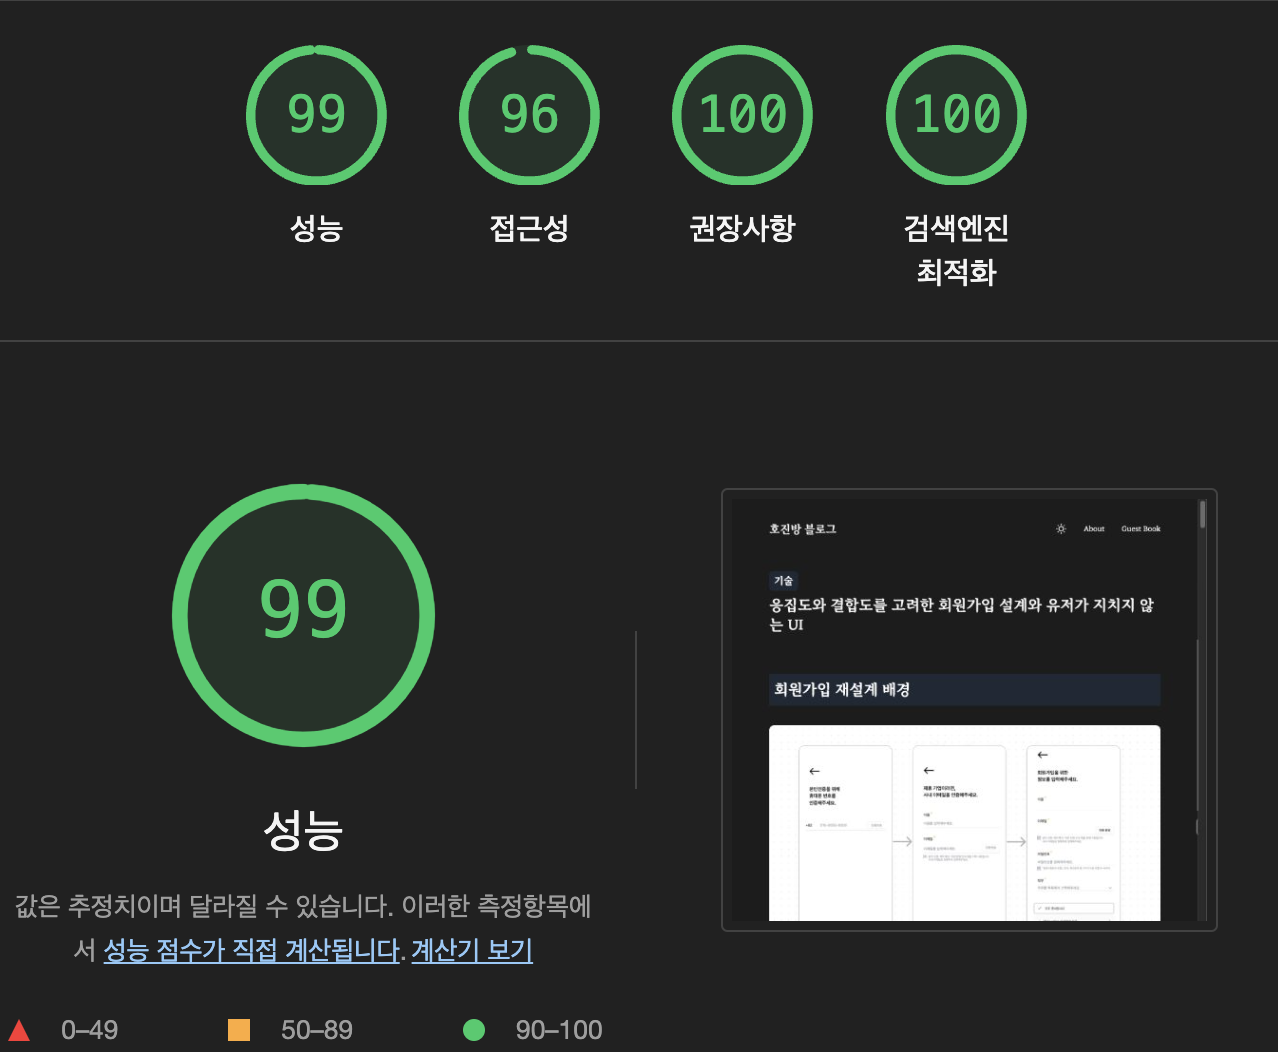
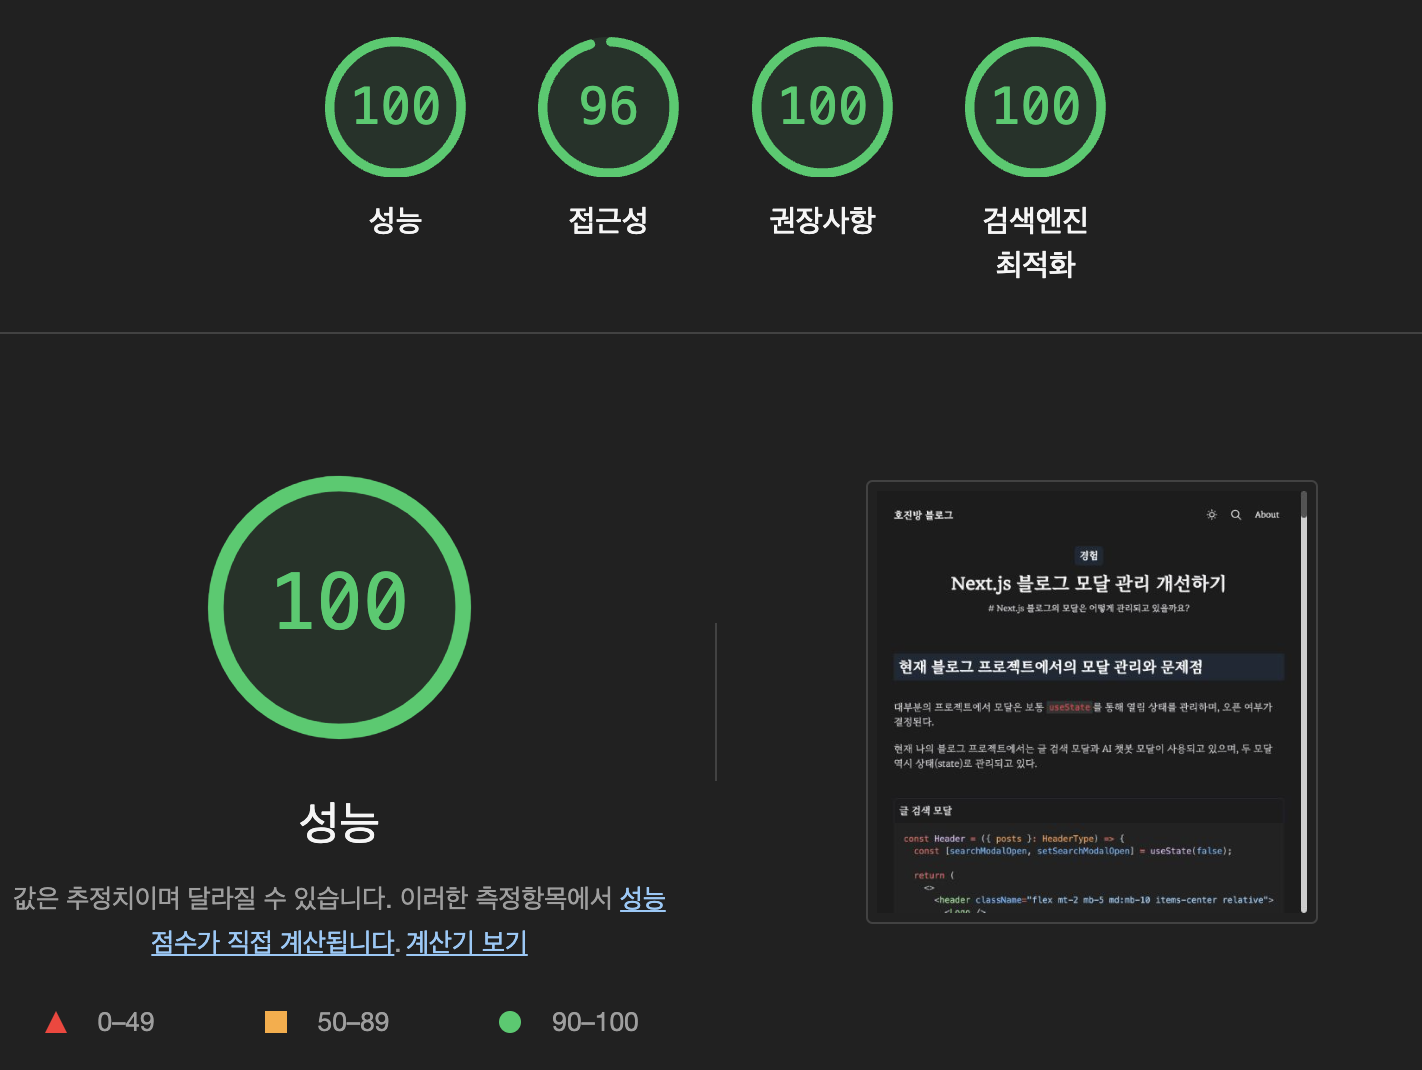
feat: 전체적인 디자인 사이즈 크게 변경

diff --git a/src/components/modal/AiModal.tsx b/src/components/modal/AiModal.tsx
@@ -40,7 +40,7 @@ const AiModal = () => {
   useEffect(() => {
     const firstMessage = [
       {
-        content: `${content.content} 해당 글을 최대한 길고 자세하게 요약해줘. 해당 글은 내가 작성한거고, 나의 블로그에 방문한 독자에게 설명하는 식으로 ~입니다 말투로 설명해주면 돼. 요약 중에 참고할만한 내용이 있다면 해당 링크를 https://www.banghojin.site 뒤에 구체적인 경로를 포함해서 제공해줘. 만약 참고하지 않은 내용이라면 URL을 포함하지 말아줘.`,
+        content: `${content.content} 해당 글을 최대한 길고 자세하게 요약해줘. 해당 글은 내가 작성한거고, 나의 블로그에 방문한 독자에게 설명하는 식으로 ~입니다 말투로 설명해주면 돼. 요약 중에 참고할만한 내용이 있다면 해당 링크[https://www.banghojin.site]를 참고해서 뒤에 구체적인 경로를 포함해서 제공해줘. 만약 참고하지 않은 내용이라면 URL을 포함하지 말아줘.`,
         role: 'user' as const,
       },
     ];
@@ -71,7 +71,7 @@ const AiModal = () => {
       <div
         data-cy="AiModal"
         ref={ref}
-        className="border border-gray-500 absolute top-1/2 transform -translate-y-1/2 w-[720px] min-h-[500px] max-h-[600px] overflow-y-auto mx-auto bg-gray-50 pb-4 rounded-xl shadow-lg custom-scrollbar2"
+        className="border border-gray-500 absolute top-1/2 transform -translate-y-1/2 w-[720px] min-h-[600px] max-h-[700px] overflow-y-auto mx-auto bg-gray-50 pb-4 rounded-xl shadow-lg custom-scrollbar2"
       >
         <div className="w-full h-9 bg-gray-900 px-3 py-3 flex items-center gap-2">
           <div
@@ -85,13 +85,14 @@ const AiModal = () => {
           <div className="flex items-center">
             <Image
               src="/images/chatbot_me.jpeg"
-              width={50}
-              height={50}
+              width={55}
+              height={55}
               alt="me"
               className="rounded-full"
+              priority
             />
           </div>
-          <div className="mr-3 text-zinc-800 font-naverSemi text-sm rounded-l-3xl bg-gray-100 p-4 rounded-br-3xl shadow-lg">
+          <div className="mr-3 text-zinc-800 font-naverSemi text-[15px] rounded-l-3xl bg-gray-100 p-4 rounded-br-3xl shadow-lg">
             <p>안녕하세요. 방호진 블로그에 오신것을 환영합니다. 글이 많이 길었죠? </p>
             <p>금방 요약해서 보여드릴게요 잠시만 기다려주세요~</p>
           </div>
@@ -102,16 +103,16 @@ const AiModal = () => {
             <div className="flex items-center">
               <div className="flex items-center gap-1">
                 <LiaRobotSolid size={40} color="black" />
-                <div className="text-zinc-800 font-bold text-sm">호진봇</div>
+                <div className="text-zinc-800 font-bold text-[15px]">호진봇</div>
               </div>
             </div>
-            <div className="font-naverSemi ml-3 text-zinc-800  text-sm rounded-r-3xl bg-gray-100 p-4 rounded-bl-3xl shadow-lg">
+            <div className="font-naverSemi ml-3 text-zinc-800  text-[15px] rounded-r-3xl bg-gray-100 p-4 rounded-bl-3xl shadow-lg">
               {`요약중 ${' . '.repeat(dotCount)}`}
             </div>
           </div>
         )}
 
-        <div className=" max-h-[500px] mx-4">
+        <div className=" max-h-[600px] mx-4">
           {messageProps.map((props, i) => (
             <Message {...props} key={i} />
           ))}

diff --git a/src/components/home/About.tsx b/src/components/home/About.tsx
@@ -16,8 +16,8 @@ const About = () => {
       </div>
       <div className="flex flex-col gap-2">
         <div className="flex flex-col">
-          <div className="font-bold text-gray-800 text-lg dark:text-gray-300">HJ Bang</div>
-          <div className="font-naverSemi text-gray-600 text-[13px] dark:text-gray-300">
+          <div className="font-naverBold text-gray-800 text-[20px] dark:text-gray-300">HJ Bang</div>
+          <div className="font-naverSemi text-gray-600 text-[14.5px] dark:text-gray-300">
             안녕하세요 배움을 나누며 함께 전진하는 신입 개발자 방호진입니다.
           </div>
         </div>
@@ -34,7 +34,7 @@ const About = () => {
           >
             <FaGithub size={26} className="text-gray-800 dark:text-gray-300" />
             {isGithubHover && (
-              <div className="px-[6px] py-1 bg-white font-naverSemi text-[13px] shadow-lg absolute -bottom-9 -left-2">
+              <div className="px-[6px] py-1 bg-white font-naverSemi text-[14px] shadow-lg absolute -bottom-9 -left-2">
                 Github
               </div>
             )}
@@ -51,7 +51,7 @@ const About = () => {
           >
             <IoMdMail size={26} className="text-gray-800 dark:text-gray-300" />
             {isMailHover && (
-              <div className="px-[6px] py-1 bg-white font-naverSemi text-[13px] shadow-lg absolute -bottom-9 -left-[6px]">
+              <div className="px-[6px] py-1 bg-white font-naverSemi text-[14px] shadow-lg absolute -bottom-9 -left-[6px]">
                 Gmail
               </div>
             )}

diff --git a/src/components/post/SideTheme.tsx b/src/components/post/SideTheme.tsx
@@ -50,7 +50,7 @@ const SideTheme = () => {
         }}
         aria-label="Toggle theme"
         style={{ boxShadow: '0 0 1px 1px #b9b9b9' }}
-        className={`relative duration-100  hover:bg-gray-200 mt-3 w-8 h-8 rounded-md cursor-pointer flex items-center justify-center transition-[background-color] p-2 
+        className={`relative duration-100  hover:bg-gray-200 mt-3 w-9 h-9 rounded-md cursor-pointer flex items-center justify-center transition-[background-color] p-2 
         [&_.sun-icon]:hidden
         dark:[&_.moon-icon]:hidden
         dark:[&_.sun-icon]:inline
@@ -74,16 +74,16 @@ const SideTheme = () => {
         }}
       >
         <span className="sun-icon">
-          <MdOutlineWbSunny size={18} />
+          <MdOutlineWbSunny size={22} />
         </span>
         <span className="moon-icon">
-          <LuMoon size={18} />
+          <LuMoon size={22} />
         </span>
       </button>
       {isHover && (
         <div
-          className={`text-zinc-600 font-naverBold  py-2 px-3 flex items-center justify-center rounded-lg  absolute -bottom-10 shadow-lg bg-white dark:bg-gray-600 dark:text-white
-          ${preference === null ? 'left-[66px]' : 'left-[70px]'}
+          className={`text-sm text-zinc-600 font-naverBold  py-2 px-3 flex items-center justify-center rounded-lg  absolute -bottom-10 shadow-lg bg-white dark:bg-gray-600 dark:text-white
+          ${preference === null ? 'left-[72px]' : 'left-[78px]'}
           `}
         >
           {preference === null ? 'System' : preference === 'dark' ? 'Dark' : 'Light'}

diff --git a/src/components/post/PostListLayout.tsx b/src/components/post/PostListLayout.tsx
@@ -29,18 +29,18 @@ const PostListLayout = ({ posts }: PostListLayoutType) => {
 
   return (
     <Suspense fallback={null}>
-      <main className="max-w-2xl m-auto mb-10 text-sm ">
+      <main className="max-w-2xl m-auto mb-10  ">
         <header className="flex justify-between text-[16px] text-gray-600 dark:text-gray-300">
-          <div className="flex items-center">
+          <div className="flex items-center text-[16.5px]">
             <button
               onClick={clickBtn}
-              className={`font-naverBold flex mr-2 items-center justify-center w-12 h-9 text-left  dark:text-gray-300 hover:bg-gray-100 dark:hover:bg-[#242424] active:bg-gray-200 dark:active:bg-[#222]`}
+              className={` font-naverBold flex mr-2 items-center justify-center w-12 h-9 text-left  dark:text-gray-300 hover:bg-gray-100 dark:hover:bg-[#242424] active:bg-gray-200 dark:active:bg-[#222]`}
             >
               {divide[1] === '전체' ? 'tag' : `${divide[1]}`}
             </button>
-            <span className="pl-2 grow font-naverBold">title</span>
+            <span className=" pl-2 grow font-naverBold">title</span>
           </div>
-          <div className="text-sm flex items-center font-naverBold">
+          <div className="text-[15.5px] flex items-center font-naverBold">
             {dividedPosts?.length} posts
             <span className="pl-3">{divide[1] === '전체' ? '4 tags' : ``}</span>
           </div>

diff --git a/src/components/post/AiBot.tsx b/src/components/post/AiBot.tsx
@@ -35,14 +35,14 @@ const AiBot = ({ post }) => {
           setIsHover(false);
         }}
         style={{ boxShadow: '0 0 1px 1px #b9b9b9' }}
-        className={`relative mt-3 w-8 h-8 rounded-md cursor-pointer flex items-center justify-center transition duration-100
+        className={`relative mt-3 w-9 h-9 rounded-md cursor-pointer flex items-center justify-center transition duration-100
         ${isHover ? 'bg-gray-200 dark:bg-gray-700' : ''}
         `}
       >
-        <LiaRobotSolid size={22} className="text-gray-600 dark:text-white" />
+        <LiaRobotSolid size={24} className="text-gray-600 dark:text-white" />
       </div>
       {isHover && (
-        <div className="bg-white text-zinc-600 font-naverBold  py-2 px-3 flex items-center justify-center rounded-lg  absolute -bottom-10 shadow-lg left-[26px] dark:bg-gray-600 dark:text-white">
+        <div className="text-sm bg-white text-zinc-600 font-naverBold  py-2 px-3 flex items-center justify-center rounded-lg  absolute -bottom-10 shadow-lg left-[30px] dark:bg-gray-600 dark:text-white">
           AI 요약
         </div>
       )}

diff --git a/src/components/post/ToTop.tsx b/src/components/post/ToTop.tsx
@@ -17,14 +17,14 @@ const ToTop = () => {
         }}
         onClick={handleClick}
         style={{ boxShadow: '0 0 1px 1px #b9b9b9' }}
-        className={`relative mt-3 w-8 h-8 rounded-md cursor-pointer flex items-center justify-center transition duration-100
+        className={`relative mt-3 w-9 h-9 rounded-md cursor-pointer flex items-center justify-center transition duration-100
         ${isHover ? 'bg-gray-200 dark:bg-gray-700' : ''}
         `}
       >
-        <BiArrowToTop size={18} className="text-gray-600 dark:text-white" />
+        <BiArrowToTop size={24} className="text-gray-600 dark:text-white" />
       </div>
       {isHover && (
-        <div className="text-zinc-600 font-naverBold  py-2 px-3 flex items-center justify-center rounded-lg  absolute -bottom-10 -left-[14px] shadow-lg bg-white dark:bg-gray-600 dark:text-white">
+        <div className="text-sm text-zinc-600 font-naverBold  py-2 px-3 flex items-center justify-center rounded-lg  absolute -bottom-10 -left-[12px] shadow-lg bg-white dark:bg-gray-600 dark:text-white">
           To Top
         </div>
       )}

diff --git a/src/components/post/PostHeader.tsx b/src/components/post/PostHeader.tsx
@@ -48,13 +48,13 @@ export function PostHeader({ posts }: PostHeaderType) {
     <>
       <div className="pt-3 pb-8 flex flex-col items-center gap-1">
         <div
-          className="max-w-max flex items-center py-1 px-2 bg-gray-200 font-naverBold rounded-md mb-2 dark:text-white dark:bg-gray-800"
+          className="text-[17px] max-w-max flex items-center py-1 px-2 bg-gray-200 font-naverBold rounded-md mb-2 dark:text-white dark:bg-gray-800"
           suppressHydrationWarning={true}
         >
           {getTag(post.tag)}
         </div>
-        <h1 className=" text-3xl font-naverBold dark:text-gray-100">{post.title}</h1>
-        <p className=" font-naverSemi text-sm mt-2"># {post.subTitle}</p>
+        <h1 className=" text-[32px] font-naverBold dark:text-gray-100">{post.title}</h1>
+        <p className=" font-naverSemi text-[16px] mt-2"># {post.subTitle}</p>
       </div>
       {showToTop && <ToTop postId={post.id} />}
       <Sidebar parsedContent={parsedContent} post={post} />

diff --git a/src/components/modal/SearchModal.tsx b/src/components/modal/SearchModal.tsx
@@ -96,13 +96,13 @@ const SearchModal = ({ setSearchModalOpen, posts }: SearchModalType) => {
                ${!isFirst ? 'border-t-0' : ''}
                ${isLast ? 'border-b-0' : ''}`}
                     >
-                      <div className="w-12 flex items-center justify-center mr-4 font-naverBold text-sm">
+                      <div className="w-12 flex items-center justify-center mr-4 font-naverBold text-[16px]">
                         {isFirstOfTag && getTag(post.tag)}
                       </div>
                       <div className="flex-1 text-gray-800  dark:text-gray-100 flex flex-col">
                         <div
                           data-cy={`${post.title}`}
-                          className="text-sm font-naverSemi text-gray-800"
+                          className="text-[16px] font-naverSemi text-gray-800"
                         >
                           {post.title}
                         </div>

diff --git a/src/components/post/Sidebar.tsx b/src/components/post/Sidebar.tsx
@@ -17,9 +17,9 @@ const Sidebar = ({ parsedContent, post }: SidebarType) => {
 
   return (
     <>
-      <div className="text-xs fixed ml-[700px] -mt-6">
+      <div className="text-xs fixed ml-[740px] -mt-12">
         <div className="border-l border-gray-300 flex flex-col gap-1 py-4 px-4">
-          <div className="font-naverBold text-lg text-gray-700 dark:text-gray-300">
+          <div className="font-naverBold text-[19px] text-gray-700 dark:text-gray-300">
             On This Page
           </div>
           <ul>
@@ -33,7 +33,7 @@ const Sidebar = ({ parsedContent, post }: SidebarType) => {
                       ? 'text-pink-600 font-naverBold'
                       : 'text-gray-500 dark:text-gray-300 font-naverSemi'
                   }
-                  mt-2 text-xs  `}
+                  mt-4 text-[13.5px]  `}
                 >
                   <Link href={item.link}>{item.text}</Link>
                 </li>

diff --git a/src/components/modal/Message.tsx b/src/components/modal/Message.tsx
@@ -23,12 +23,12 @@ const Message = ({ content, role }: MessageType) => {
             <LiaRobotSolid size={40} color="black" />
           </div>
 
-          <div className="font-semibold text-sm text-zinc-800">호진봇</div>
+          <div className="font-semibold text-[15px] text-zinc-800">호진봇</div>
         </div>
       </div>
       <div
         dangerouslySetInnerHTML={{ __html: formattedContent }}
-        className="whitespace-pre-wrap font-naverSemi ml-3 text-zinc-800  text-sm rounded-r-3xl bg-gray-100 p-4 rounded-bl-3xl shadow-lg"
+        className="whitespace-pre-wrap font-naverSemi ml-3 text-zinc-800  text-[15px] rounded-r-3xl bg-gray-100 p-4 rounded-bl-3xl shadow-lg"
       />
     </div>
   );

diff --git a/src/components/post/PostList.tsx b/src/components/post/PostList.tsx
@@ -40,8 +40,8 @@ const PostList = ({ posts, divide }: PostListType) => {
                   {isFirstOfTag && divide[1] == '전체' && getTag(post.tag)}
                 </div>
                 <div className="flex-1 dark:text-gray-100 flex flex-col">
-                  <div className=" text-[14.5px] font-naverSemi">{post.title}</div>
-                  <div className="mt-[2px] text-[11.5px]"># {post.subTitle}</div>
+                  <div className=" text-[15.5px] font-naverSemi">{post.title}</div>
+                  <div className="mt-[2px] text-[13px]"># {post.subTitle}</div>
                 </div>
               </div>
             </Link>

diff --git a/src/components/Header.tsx b/src/components/Header.tsx
@@ -40,7 +40,7 @@ const Header = ({ posts }: HeaderType) => {
           <Link
             id="aboutLink"
             href="/about"
-            className="text-sm inline-flex hover:bg-gray-200 dark:hover:bg-[#313131] active:bg-gray-300 dark:active:bg-[#242424] rounded-sm p-2 transition-[background-color]"
+            className="text-[15.5px] inline-flex hover:bg-gray-200 dark:hover:bg-[#313131] active:bg-gray-300 dark:active:bg-[#242424] rounded-sm p-2 transition-[background-color]"
           >
             About
           </Link>
